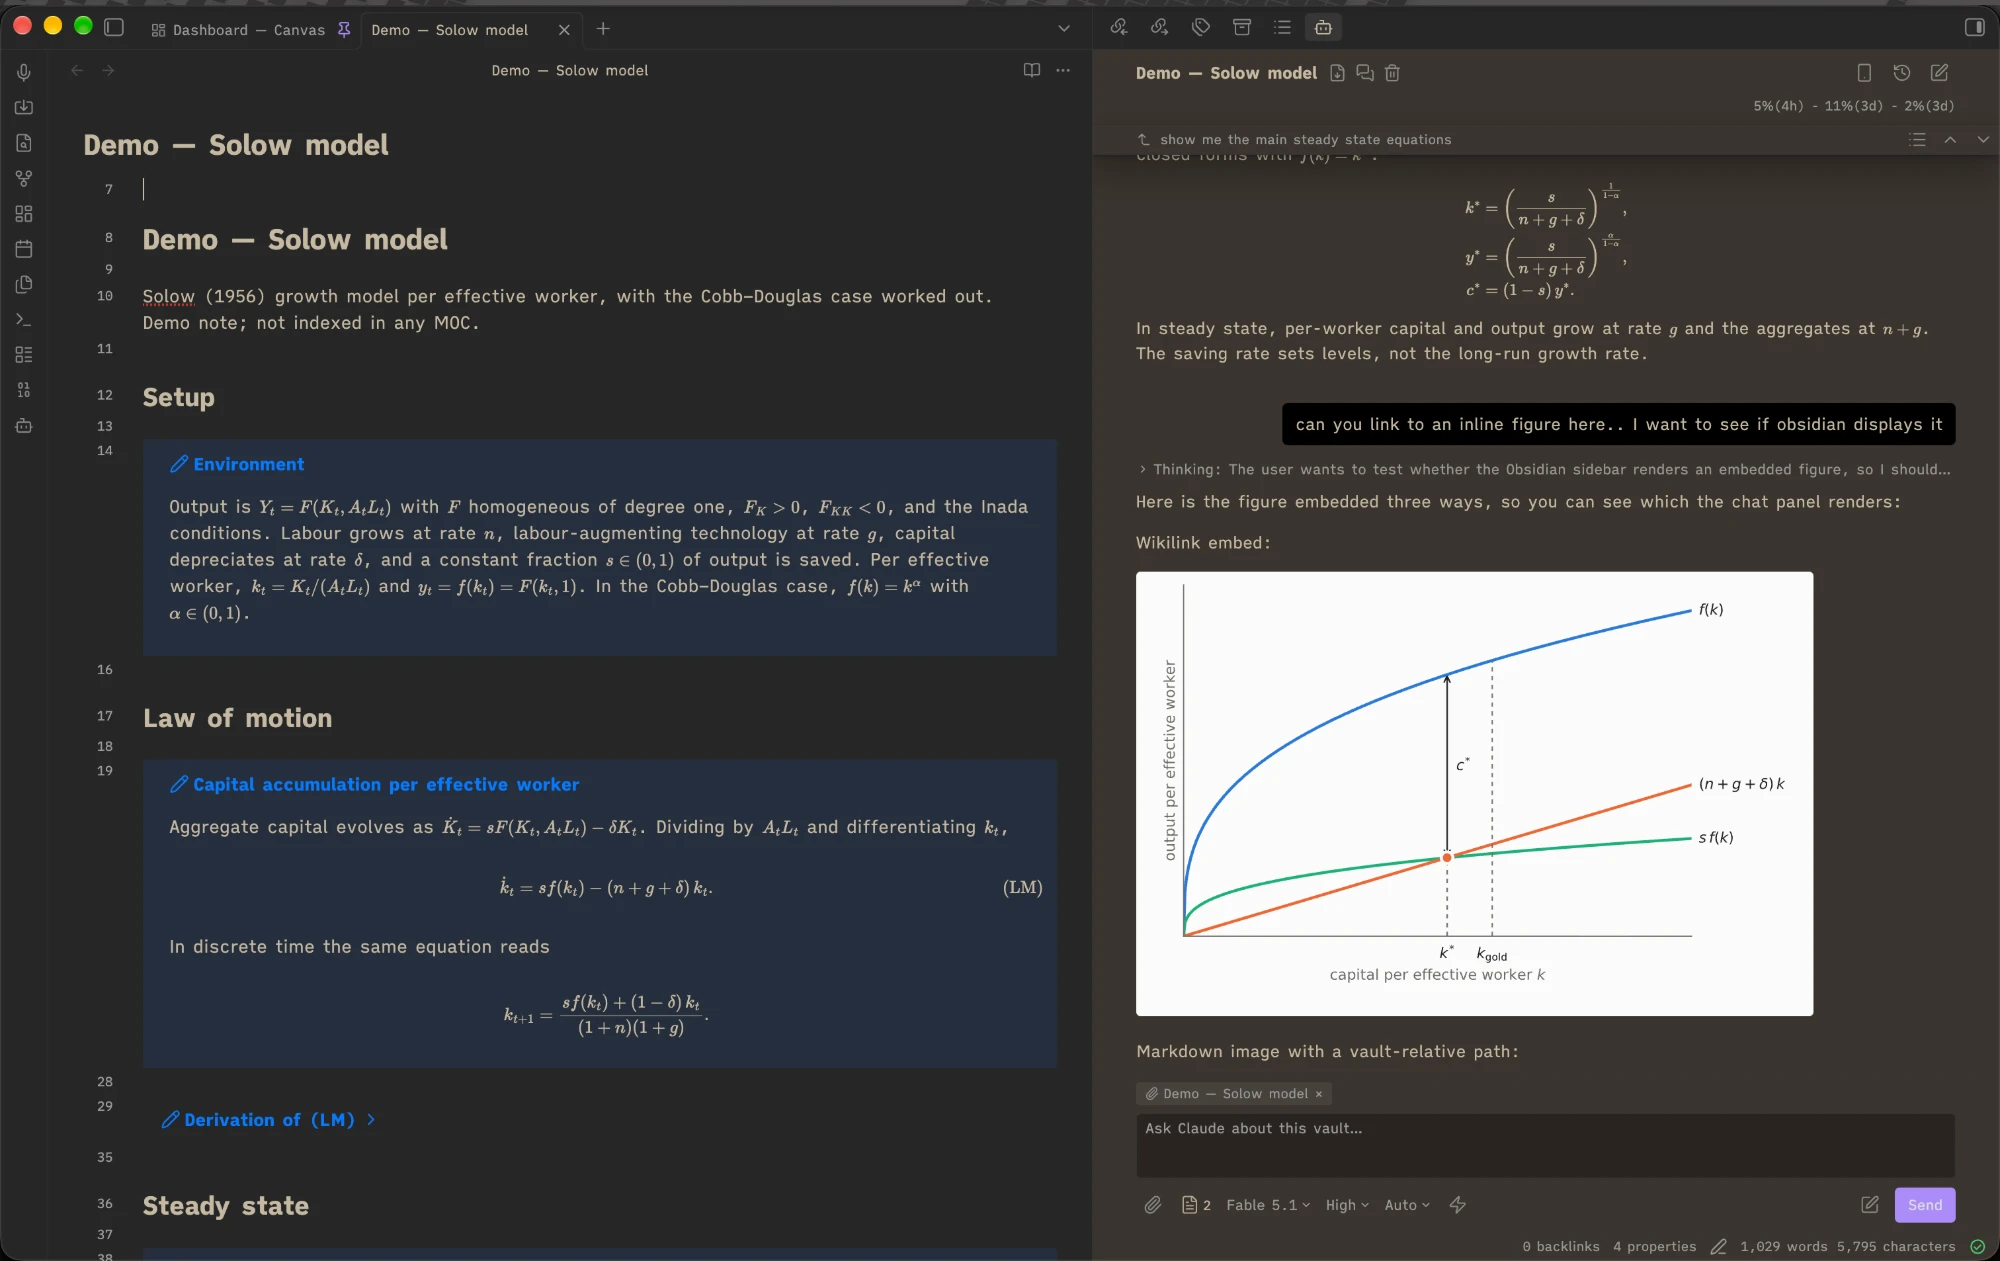
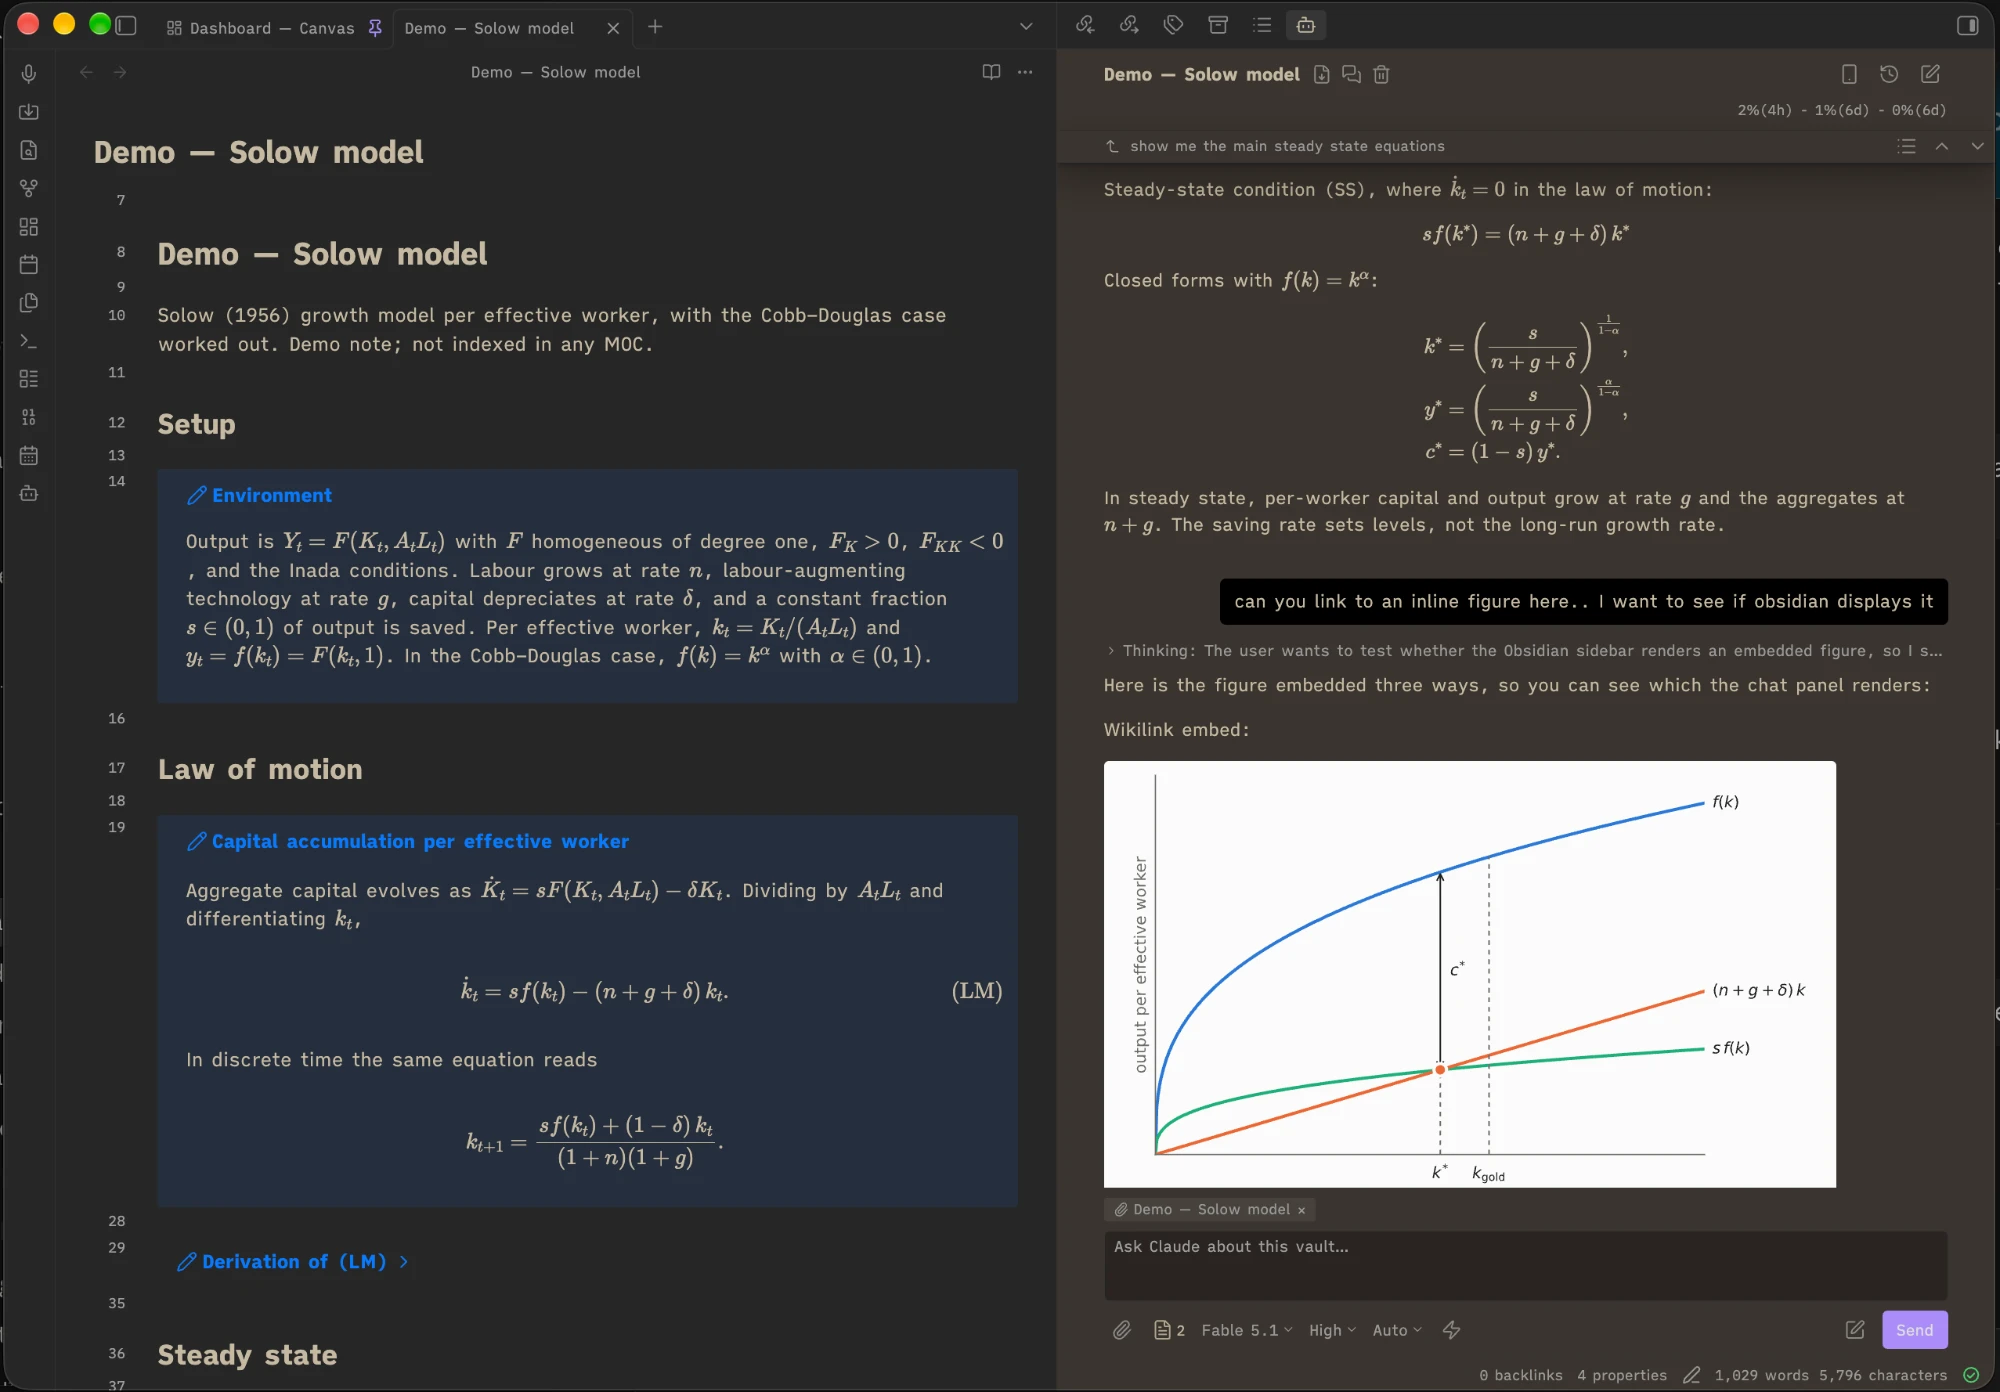
README: new main screenshot

diff --git a/README.md b/README.md
@@ -4,7 +4,7 @@ An [Obsidian](https://obsidian.md) sidebar chat that runs your locally installed
 
 Built by **Claude Opus 5** (`claude-opus-5`) and **Claude Opus 5.5** (`claude-opus-5-5`) in Claude Code.
 
-<img src="docs/chat.png" width="800" alt="Obsidian with a note on the Solow model in Live Preview on the left, its callouts and equations rendered, and the Vault Claude panel on the right: the chat title with its save, side-chat and delete buttons, the bar over the chat naming the prompt being answered, a reply with the steady-state equations displayed, a reply embedding a figure from the vault, the note attached above the input, and under the input the notes button showing 2 beside the paperclip">
+<img src="docs/chat.png" width="800" alt="Obsidian with a note on the Solow model in Live Preview on the left, its callouts and equations rendered, among them a tagged equation and a folded derivation, and the Vault Claude panel on the right: the chat title with its save, side-chat and delete buttons, the usage meter, the bar over the chat naming the prompt being answered, a reply with the steady-state equations displayed, a reply embedding a figure from the vault, the note attached above the input, and under the input the notes button showing 2 beside the paperclip, then the model, effort and permission-mode menus and the fast-mode button">
 
 ## Features
 
